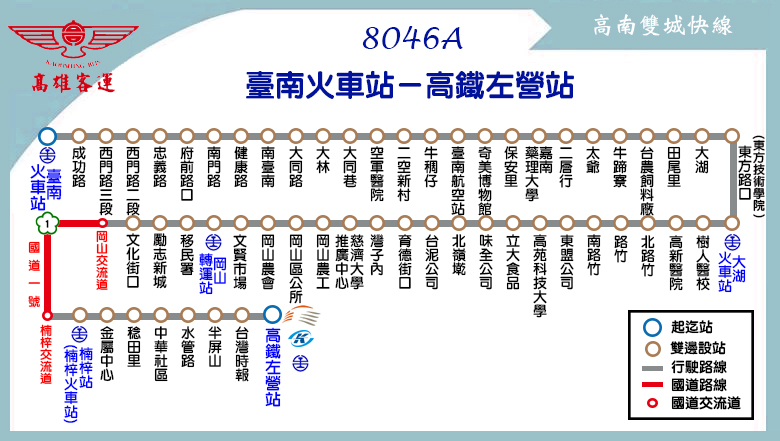
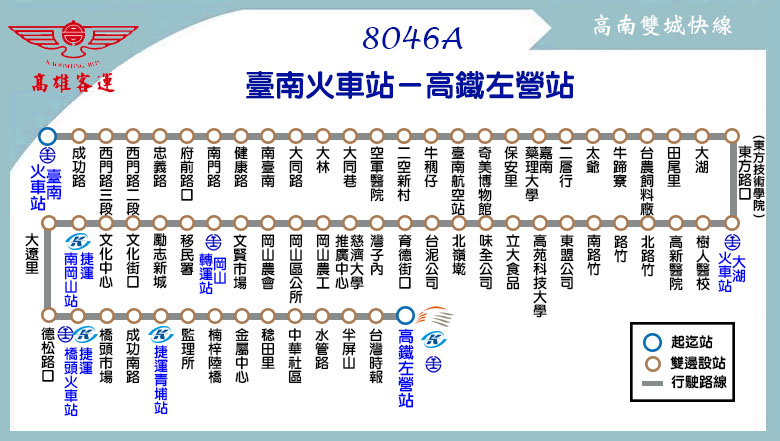
Update the route map of 8046A

diff --git a/route/fare_and_time/highway_bus_8046A.js b/route/fare_and_time/highway_bus_8046A.js
@@ -13,7 +13,7 @@ highway_bus_8046A_fare = [
 // format = [time at the start stop] or
 // [time, other] or
 // [time, start_stop, end_stop, other]
-highway_bus_8046A_main_stop_name = ["臺南<br />火車站","西門路<br />二段","大林","臺南<br />航空站","奇美<br />博物館","嘉南<br />藥理大學","大湖<br />火車站","路竹","岡山<br />轉運站","楠梓<br />火車站","高鐵<br />左營站"];
+highway_bus_8046A_main_stop_name = ["臺南<br />火車站","西門路<br />二段","大林","臺南<br />航空站","奇美<br />博物館","嘉南<br />藥理大學","大湖<br />火車站","路竹","岡山<br />轉運站","捷運<br />青埔站","高鐵<br />左營站"];
 highway_bus_8046A_main_stop_time_consume = [0,6,15,22,25,28,40,45,60,80,90];
 highway_bus_8046A_important_stop = [0, 4, 6, 8, 10]; // 臺南火車站, 奇美博物館, 大湖火車站, 岡山轉運站, 高鐵左營站
 highway_bus_8046A_time_go = [["07:30"],["11:30"],["14:00"],["17:45"],["22:30",[[2,-5,6,-10]]]];
